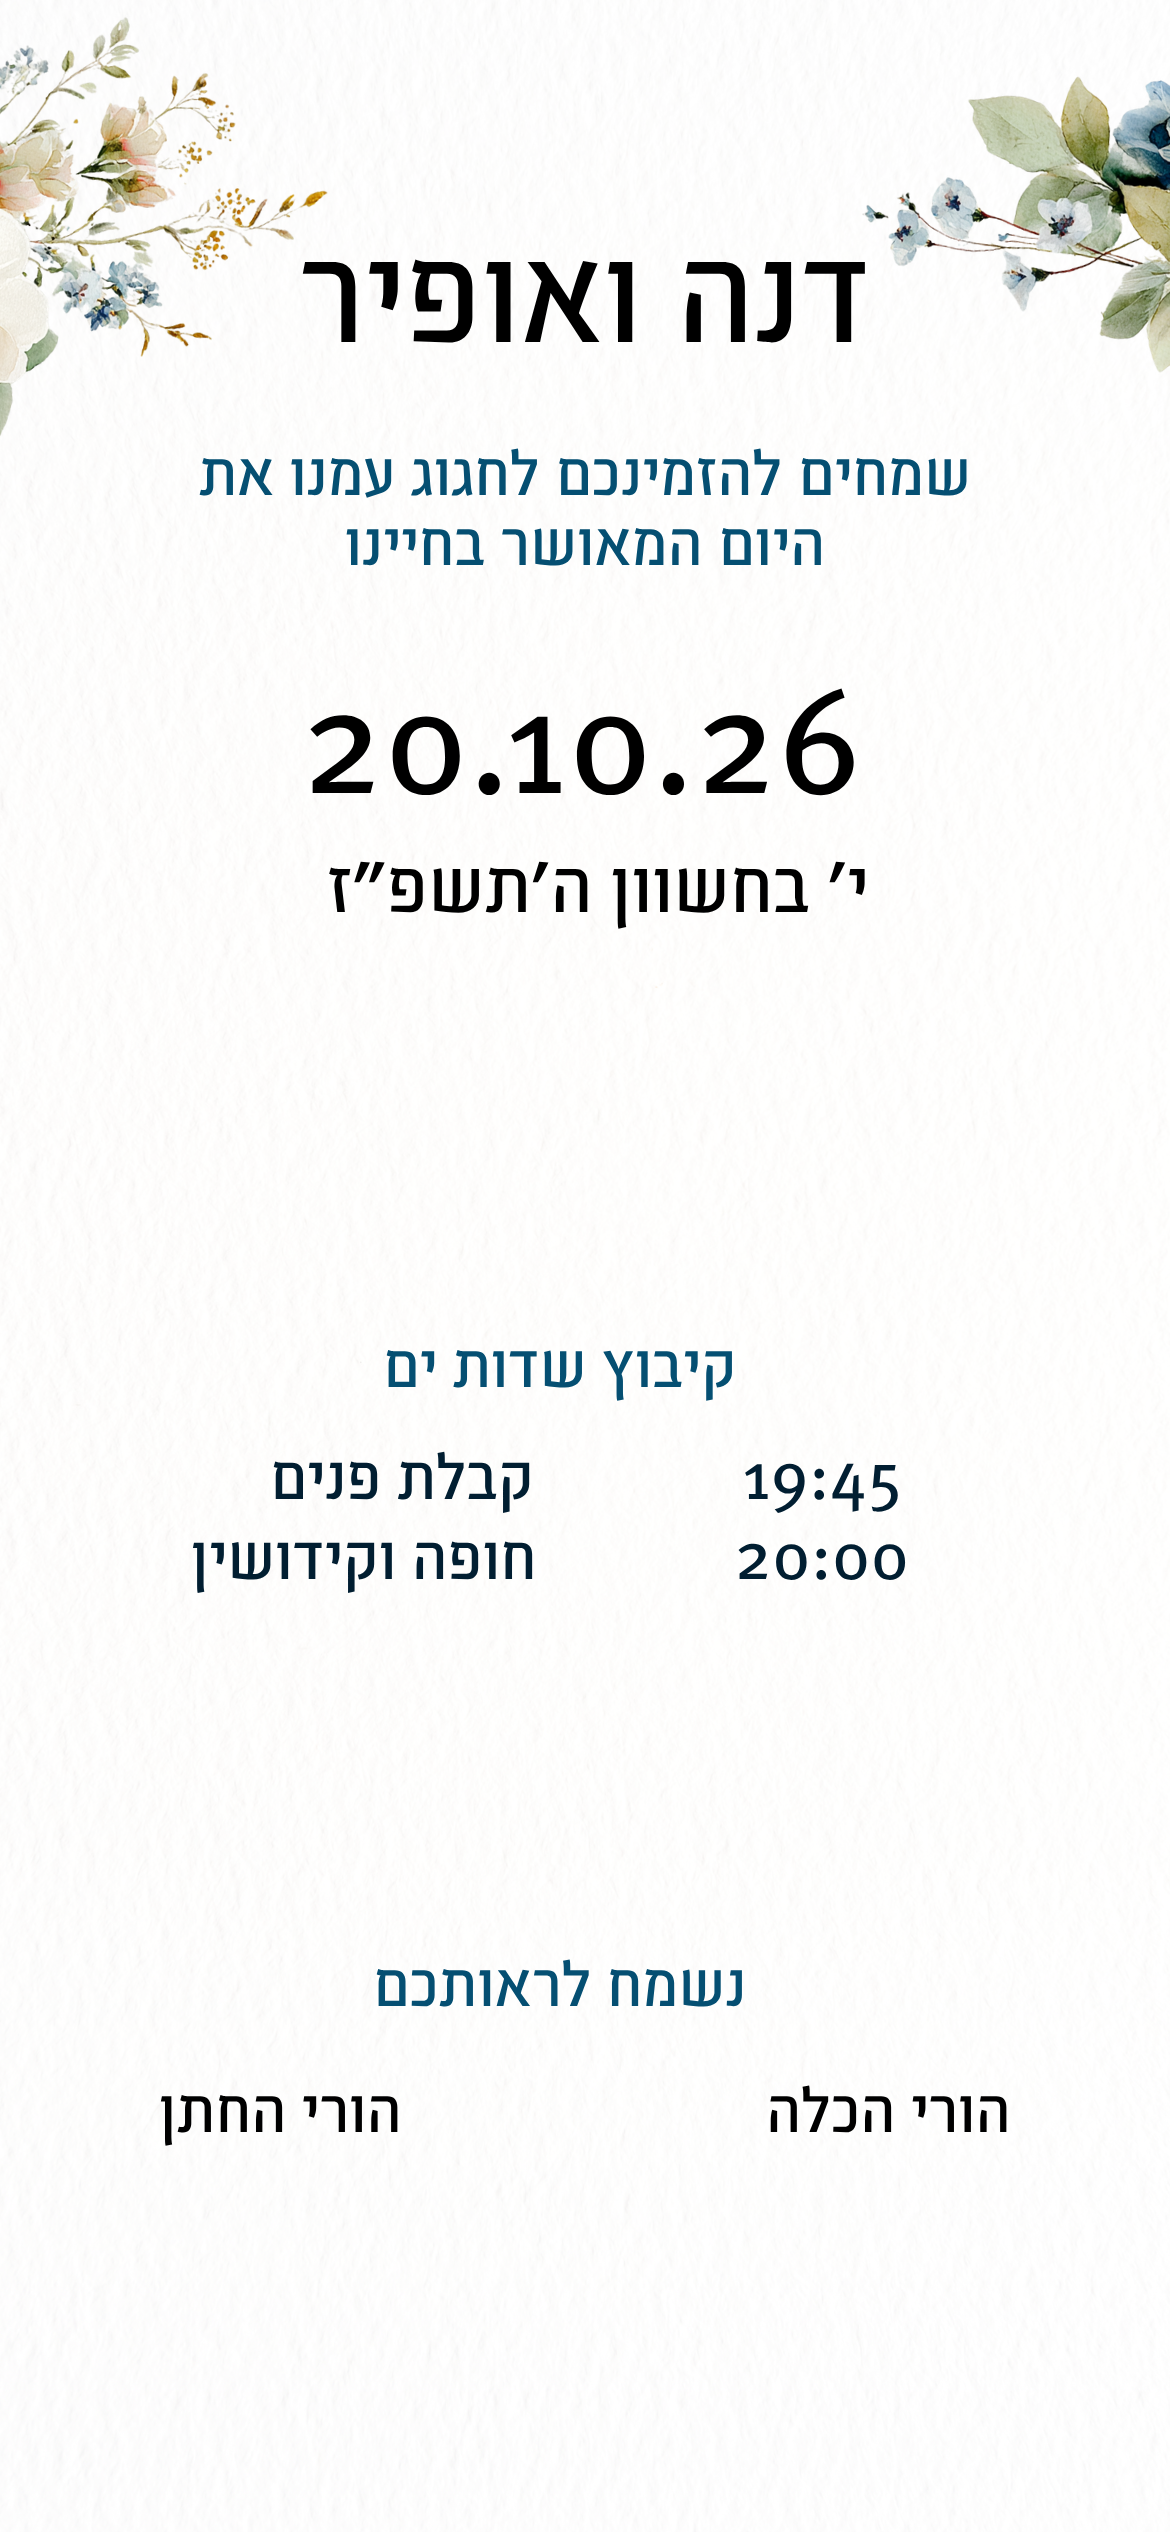
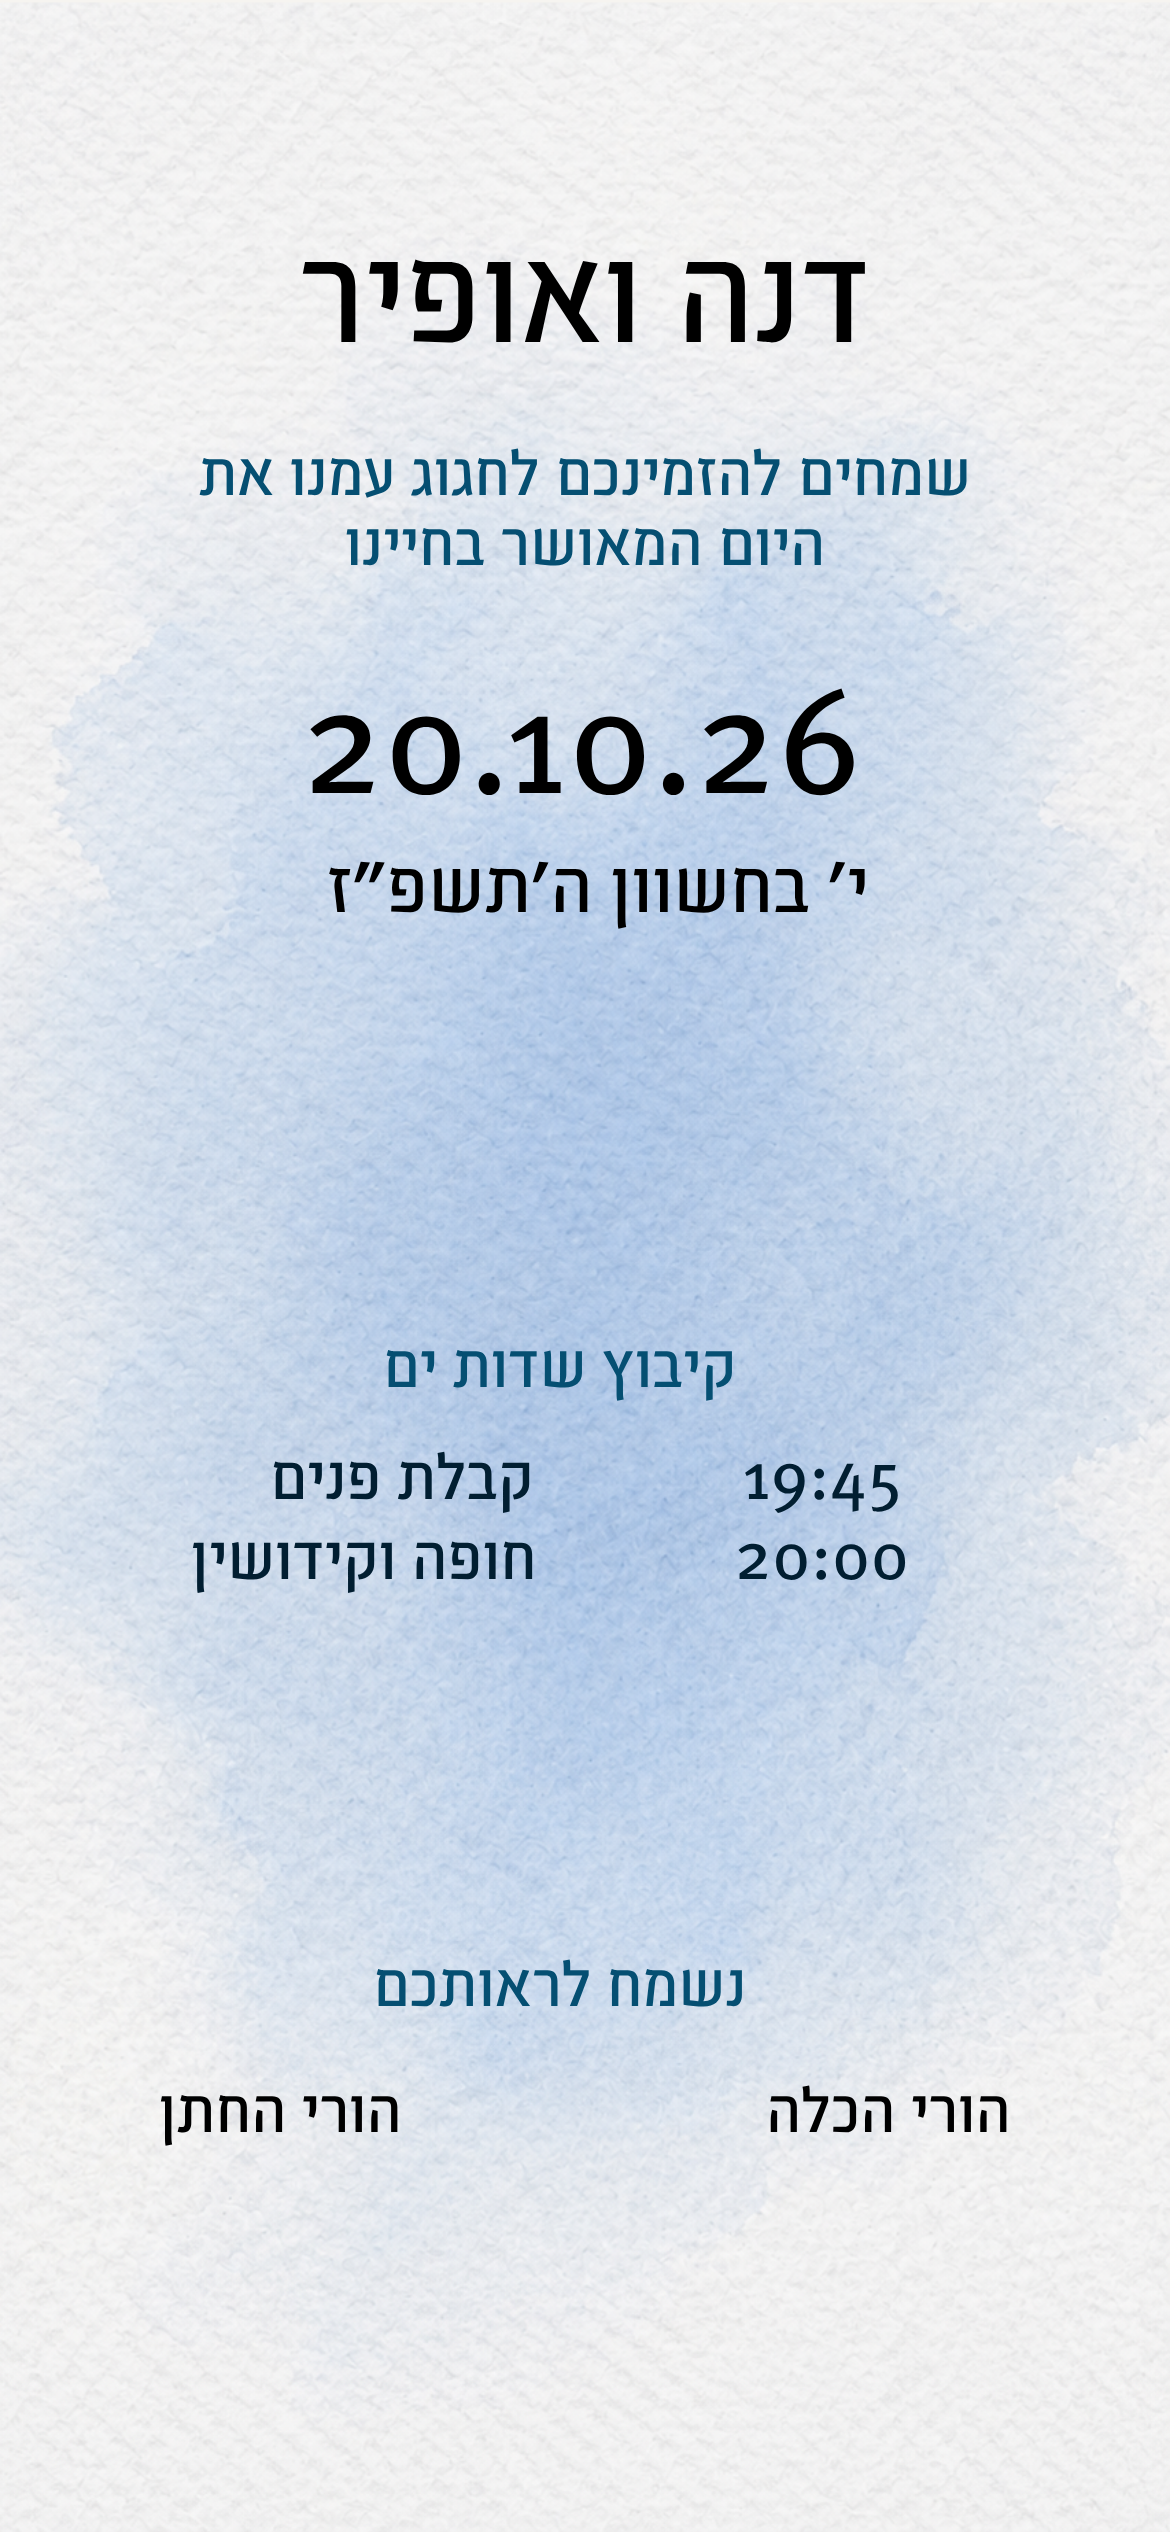
changes

diff --git a/src/designs/design3/index.jsx b/src/designs/design3/index.jsx
@@ -77,11 +77,6 @@ export default function Design3Page() {
             transition={{ duration: 0.6 }}
           >
             <div className="relative w-full h-full">
-              <img
-                src={config.images.topImg}
-                alt="ציפורה ורונן"
-                className="w-full h-full object-cover absolute inset-0"
-              />
               <div className="absolute z-10 left-1/2 -translate-x-1/2 top-[30%] flex flex-row gap-6">
                 <motion.button
                   onClick={() => handleNavigate('huppa')}
@@ -116,16 +111,6 @@ export default function Design3Page() {
       >
         {/* Section 2 – Blessing text + Jerusalem illustration below */}
         <section id="huppa" className="relative w-full bg-white h-screen flex flex-col overflow-hidden">
-          <motion.img
-            src={config.images.topImg}
-            alt=""
-            aria-hidden="true"
-            className="absolute top-0 left-0 w-full h-auto block pointer-events-none"
-            initial={{ y: '-100%', opacity: 0 }}
-            whileInView={{ y: 0, opacity: 1 }}
-            viewport={{ once: true }}
-            transition={{ duration: 3, ease: 'easeOut' }}
-          />
           <div className="relative flex flex-col items-center justify-start gap-6 md:gap-12 px-8 md:px-16 mt-[10rem] md:max-w-2xl lg:max-w-3xl md:mx-auto">
             {/* Blessing text */}
             <motion.p
@@ -183,12 +168,41 @@ export default function Design3Page() {
             src={config.images.jerusalemImg}
             alt="ירושלים"
             className="absolute left-0 w-full h-auto block pointer-events-none"
-            style={{ bottom: '0' }}
+            style={{
+              bottom: '0',
+              maskImage: 'linear-gradient(to top, black 75%, transparent 100%)',
+              WebkitMaskImage: 'linear-gradient(to top, black 75%, transparent 100%)',
+            }}
+          />
+
+          {/* Soft fade overlay at bottom of section to bleed into next */}
+          <div
+            aria-hidden="true"
+            className="absolute bottom-0 left-0 w-full h-32 pointer-events-none"
+            style={{
+              background: 'linear-gradient(to bottom, transparent 0%, rgba(255,255,255,0.85) 60%, #ffffff 100%)',
+            }}
           />
         </section>
 
         {/* Section 3 – Couple, date, schedule, venue, parents */}
         <section className="relative w-full bg-white min-h-screen flex items-center justify-center py-16 md:py-24 overflow-hidden">
+          {/* Soft fade overlay at top of section, mirrored from previous */}
+          <div
+            aria-hidden="true"
+            className="absolute top-0 left-0 w-full h-24 pointer-events-none"
+            style={{
+              background: 'linear-gradient(to top, transparent 0%, rgba(255,255,255,0.7) 100%)',
+            }}
+          />
+          {/* Soft fade overlay at bottom blending into RSVP */}
+          <div
+            aria-hidden="true"
+            className="absolute bottom-0 left-0 w-full h-32 pointer-events-none"
+            style={{
+              background: 'linear-gradient(to bottom, transparent 0%, rgba(255,255,255,0.85) 60%, #ffffff 100%)',
+            }}
+          />
           <div className="relative flex flex-col items-center justify-center gap-10 md:gap-14 px-8 md:px-16 md:max-w-2xl lg:max-w-3xl md:mx-auto">
             {/* Couple names */}
             <motion.p
@@ -315,7 +329,15 @@ export default function Design3Page() {
           </div>
         </section>
 
-        <div id="rsvp" className="font-alef [&_*]:!font-alef">
+        <div id="rsvp" className="relative font-alef [&_*]:!font-alef">
+          {/* Soft fade-in from previous section */}
+          <div
+            aria-hidden="true"
+            className="absolute top-0 left-0 w-full h-24 md:h-32 pointer-events-none z-10"
+            style={{
+              background: 'linear-gradient(to bottom, #ffffff 0%, rgba(255,255,255,0.7) 50%, transparent 100%)',
+            }}
+          />
           <RSVP config={{ ...config.rsvp, contacts: config.contacts }} />
         </div>
 

diff --git a/src/designs/design2/index.jsx b/src/designs/design2/index.jsx
@@ -25,16 +25,6 @@ export default function Design2Page() {
       >
         <div className="relative w-full">
           <img src={config.images.huppa} alt="" className="relative w-full h-auto" />
-          <img
-            src={config.images.dec1}
-            alt="" aria-hidden="true"
-            className="absolute inset-0 w-full h-full object-contain pointer-events-none"
-          />
-          <img
-            src={config.images.dec2}
-            alt="" aria-hidden="true"
-            className="absolute inset-0 w-full h-full object-contain pointer-events-none"
-          />
 
           {/* Countdown overlay */}
           <div className="absolute left-1/2 -translate-x-1/2 bottom-[54%] w-[88%] max-w-md">
@@ -59,10 +49,10 @@ export default function Design2Page() {
       <div
         className="pt-40 md:pt-56 [&_#contact_h2]:!font-alef"
         style={{
-          backgroundImage: `url(${config.images.rsvpImg}), url(${config.images.rsvpDecImg}), url(${config.images.bgImg})`,
-          backgroundSize: '100% auto, 100% auto, cover',
-          backgroundPosition: 'top center, top center, top center',
-          backgroundRepeat: 'no-repeat, no-repeat, repeat-y',
+          backgroundImage: `url(${config.images.rsvpImg}), url(${config.images.bgImg})`,
+          backgroundSize: '100% auto, cover',
+          backgroundPosition: 'top center, top center',
+          backgroundRepeat: 'no-repeat, repeat-y',
         }}
       >
         <RSVP config={{ ...config.rsvp, contacts: config.contacts }} />

diff --git a/src/designs/design3/config.js b/src/designs/design3/config.js
@@ -5,7 +5,6 @@
 import heroImg from '../../../assets/design3/main.png'
 import main2Img from '../../../assets/design3/nain2.png'
 import jerusalemImg from '../../../assets/design3/second.png'
-import topImg from '../../../assets/design3/top.png'
 import receptionIcon from '../../../assets/design3/elements/6.png'
 import ceremonyIcon from '../../../assets/design3/elements/5.png'
 import diningIcon from '../../../assets/design3/elements/4.png'
@@ -29,7 +28,7 @@ export const config = {
   // ── Date ──
 
   // ── Images ──
-  images: { heroImg, main2Img, jerusalemImg, topImg },
+  images: { heroImg, main2Img, jerusalemImg },
 
   // ── Schedule ──
   schedule: [
@@ -72,7 +71,7 @@ export const config = {
 
   // ── RSVP config ──
   rsvp: {
-    titleColor: '#D4AF37',
+    titleColor: '#000000',
     submitButtonColor: 'transparent',
     submitButtonHoverColor: 'rgba(0,0,0,0.05)',
     submitButtonBorderColor: '#000000',

diff --git a/src/designs/design2/config.js b/src/designs/design2/config.js
@@ -6,10 +6,7 @@ import illustrationImg from '../../../assets/design2/image.png'
 import textImg from '../../../assets/design2/text.png'
 import bgImg from '../../../assets/design2/bg.png'
 import huppa from '../../../assets/design2/huppa.png'
-import dec1 from '../../../assets/design2/dec1.png'
-import dec2 from '../../../assets/design2/dec2.png'
 import rsvpImg from '../../../assets/design2/rsvp.png'
-import rsvpDecImg from '../../../assets/design2/dec.png'
 
 
 export const config = {
@@ -32,7 +29,7 @@ export const config = {
   targetDate: new Date(2026, 8, 20, 19, 0, 0), // September 20, 2026 at 7:00 PM
 
   // ── Images ──
-  images: { illustrationImg, textImg, bgImg, huppa, dec1, dec2, rsvpImg, rsvpDecImg },
+  images: { illustrationImg, textImg, bgImg, huppa, rsvpImg },
 
   // ── Couple ──
   couple: {

diff --git a/src/designs/design4/config.js b/src/designs/design4/config.js
@@ -8,7 +8,6 @@ import detailsImg from '../../../assets/design4/details.png'
 import footerBgImg from '../../../assets/design4/bg.png'
 import footerElementsImg from '../../../assets/design4/elements.png'
 import jerusalemImg from '../../../assets/design3/second.png'
-import topImg from '../../../assets/design3/top.png'
 
 export const config = {
   title: 'ציפורה ורונן - Save the Date',
@@ -27,7 +26,7 @@ export const config = {
   targetDate: new Date(2026, 3, 30, 19, 0, 0),
 
   videos: { heroVideo },
-  images: { jerusalemImg, topImg, detailsImg, footerBgImg, footerElementsImg, introImg },
+  images: { jerusalemImg, detailsImg, footerBgImg, footerElementsImg, introImg },
 
   couple: {
     person1: { name: 'ציפורה', color: '#2C2C2C' },
